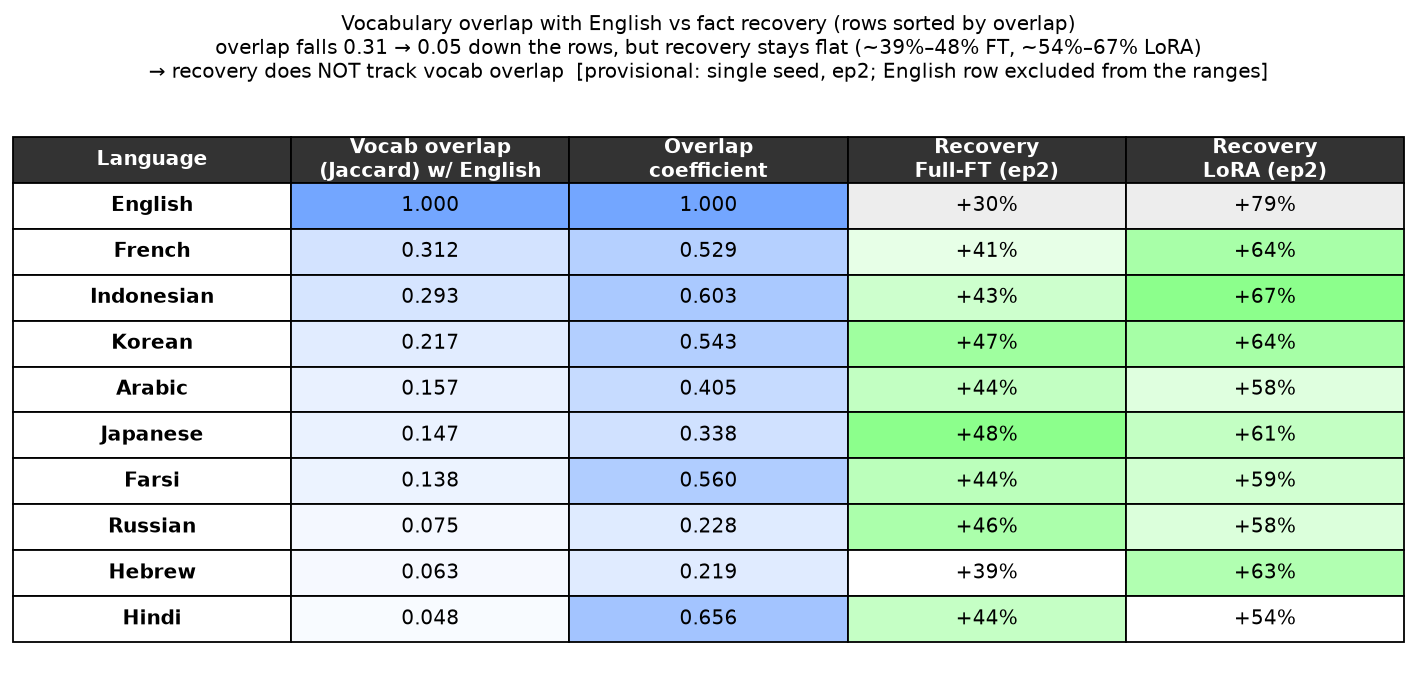
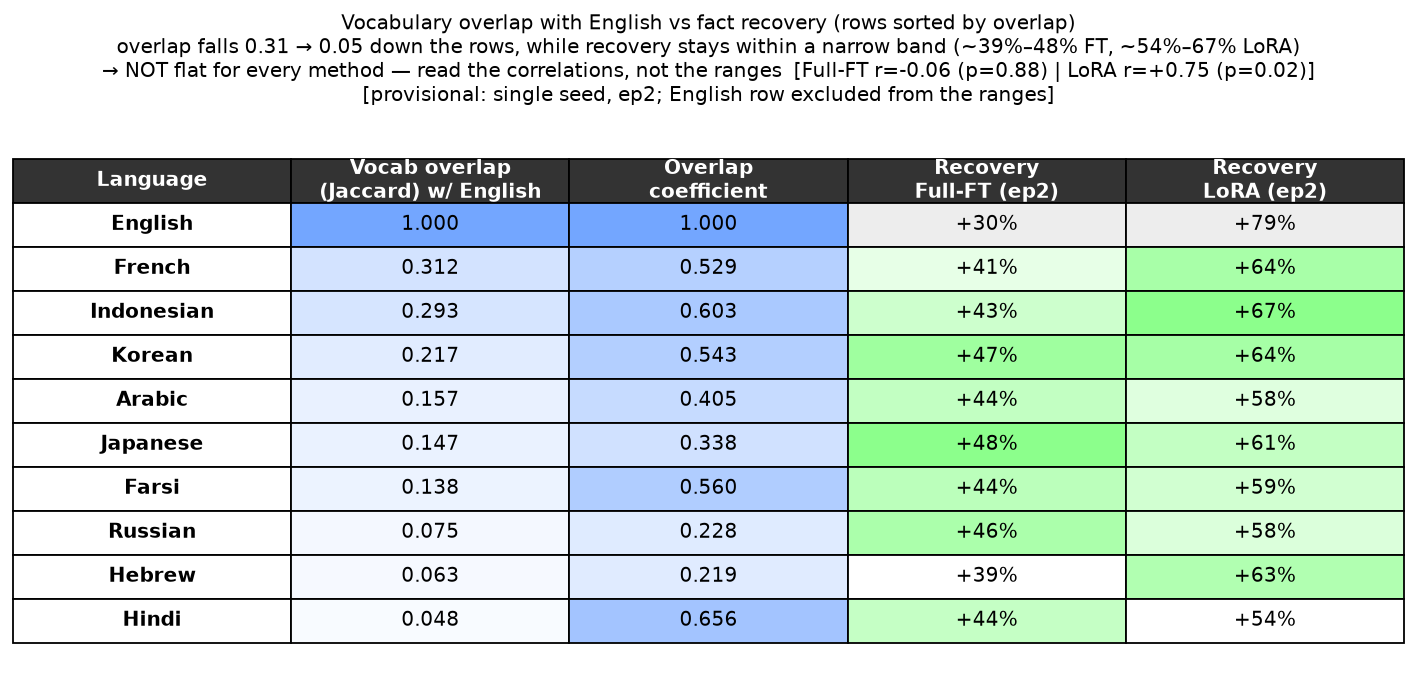
phase1: figure verdicts follow the data; underpowered != uniform
Three Phase 1 figures asserted "recovery does NOT track vocab overlap" in their
titles while their own LoRA panel/column showed r=+0.70..+0.75 at p<0.05. Same bug
class as the stale hardcoded percentages fixed in 5ec8678 -- a figure arguing with
itself -- and it had survived because only the FLORES scatter was patched in e50d783.

All three now compute the verdict at render time: Pearson r plus a 10k permutation p
per method against the plotted overlap axis, printed in the title, with the headline
switching to "NOT flat for every method" when any method is significant. The tables'
range line no longer says recovery "stays flat" (a verdict) -- it says recovery stays
within a narrow band (a fact) and leaves the judgement to the computed correlations.

bootstrap_recovery_ci.py printed "uniform is SUPPORTED (spread < CI width)", which
inverts the inference: per-language CIs 5-7x wider than the between-language spread
mean the design cannot see a difference, not that no difference exists. It now reports
UNDERPOWERED with the ratio (7.5x Full-FT, 5.2x LoRA) and states the required wording
outright -- "no detectable dependence on relearn language", not "the languages are
equal". This script exists to prevent that claim; it was making it.

No result changes -- same JSON, same numbers, only the claims drawn from them.

Claude-Session: https://claude.ai/code/session_01EURqZL7jd7Jw7i1NWkFUF5

Changed region(s): [[0.0, 0.1831, 0.9936, 0.9462], [0.0621, 0.0305, 0.9315, 0.1526]]

diff --git a/studies/crosslingual_recovery/plots/plot_overlap_recovery_table.py b/studies/crosslingual_recovery/plots/plot_overlap_recovery_table.py
@@ -43,6 +43,42 @@ def recovery(base):
     return out
 
 
+
+# --- verdict helpers: the title must FOLLOW the data, not assert a fixed claim ---
+# These figures previously hardcoded "recovery does NOT track vocab overlap" while the
+# LoRA column showed r=+0.7 at p<.05 -- a title contradicting its own table.
+def _pearson(x, y):
+    import math
+    n = len(x); mx = sum(x)/n; my = sum(y)/n
+    cov = sum((a-mx)*(b-my) for a, b in zip(x, y))
+    sx = math.sqrt(sum((a-mx)**2 for a in x)); sy = math.sqrt(sum((b-my)**2 for b in y))
+    return cov/(sx*sy) if sx*sy else float("nan")
+
+
+def _perm_p(x, y, B=10000):
+    import random
+    obs = abs(_pearson(x, y)); ys = list(y); c = 0; random.seed(42)
+    for _ in range(B):
+        random.shuffle(ys)
+        if abs(_pearson(x, ys)) >= obs - 1e-12: c += 1
+    return c/B
+
+
+def _verdict(xs, recs, langs):
+    """One line per method: r, permutation p, and whether it is flat. Non-English only."""
+    nz = [l for l in langs if l != "en"]
+    x = [xs[l] for l in nz]
+    parts, flat = [], True
+    for m, rec in recs.items():
+        y = [rec[l] for l in nz]
+        r = _pearson(x, y); p = _perm_p(x, y)
+        if p < 0.05: flat = False
+        parts.append(f"{m} r={r:+.2f} (p={p:.2f})")
+    lead = ("→ no method tracks vocab overlap"
+            if flat else "→ NOT flat for every method — read the correlations, not the ranges")
+    return lead + "  [" + " | ".join(parts) + "]"
+
+
 def main():
     rec = {m: recovery(b) for m, b in FILES.items()}
     langs = sorted(LANG_NAME, key=lambda l: JACCARD[l], reverse=True)   # high overlap -> low
@@ -91,10 +127,10 @@ def main():
     nz = [l for l in langs if l != "en"]
     ov_hi, ov_lo = JACCARD[nz[0]], JACCARD[nz[-1]]
     ax.set_title("Vocabulary overlap with English vs fact recovery (rows sorted by overlap)\n"
-                 f"overlap falls {ov_hi:.2f} → {ov_lo:.2f} down the rows, but recovery stays flat "
+                 f"overlap falls {ov_hi:.2f} → {ov_lo:.2f} down the rows, while recovery stays within a narrow band "
                  f"(~{min(ftv):.0%}–{max(ftv):.0%} FT, ~{min(lov):.0%}–{max(lov):.0%} LoRA)"
-                 "\n→ recovery does NOT track vocab overlap  "
-                 "[provisional: single seed, ep2; English row excluded from the ranges]",
+                 "\n" + _verdict(JACCARD, rec, langs) +
+                 "\n[provisional: single seed, ep2; English row excluded from the ranges]",
                  fontsize=11, pad=14)
     fig.tight_layout()
     FIGS.mkdir(parents=True, exist_ok=True)

diff --git a/studies/crosslingual_recovery/plots/plot_overlap_recovery_table_flores.py b/studies/crosslingual_recovery/plots/plot_overlap_recovery_table_flores.py
@@ -42,6 +42,42 @@ def recovery(base):
     return out
 
 
+
+# --- verdict helpers: the title must FOLLOW the data, not assert a fixed claim ---
+# These figures previously hardcoded "recovery does NOT track vocab overlap" while the
+# LoRA column showed r=+0.7 at p<.05 -- a title contradicting its own table.
+def _pearson(x, y):
+    import math
+    n = len(x); mx = sum(x)/n; my = sum(y)/n
+    cov = sum((a-mx)*(b-my) for a, b in zip(x, y))
+    sx = math.sqrt(sum((a-mx)**2 for a in x)); sy = math.sqrt(sum((b-my)**2 for b in y))
+    return cov/(sx*sy) if sx*sy else float("nan")
+
+
+def _perm_p(x, y, B=10000):
+    import random
+    obs = abs(_pearson(x, y)); ys = list(y); c = 0; random.seed(42)
+    for _ in range(B):
+        random.shuffle(ys)
+        if abs(_pearson(x, ys)) >= obs - 1e-12: c += 1
+    return c/B
+
+
+def _verdict(xs, recs, langs):
+    """One line per method: r, permutation p, and whether it is flat. Non-English only."""
+    nz = [l for l in langs if l != "en"]
+    x = [xs[l] for l in nz]
+    parts, flat = [], True
+    for m, rec in recs.items():
+        y = [rec[l] for l in nz]
+        r = _pearson(x, y); p = _perm_p(x, y)
+        if p < 0.05: flat = False
+        parts.append(f"{m} r={r:+.2f} (p={p:.2f})")
+    lead = ("→ no method tracks vocab overlap"
+            if flat else "→ NOT flat for every method — read the correlations, not the ranges")
+    return lead + "  [" + " | ".join(parts) + "]"
+
+
 def main():
     rec = {m: recovery(b) for m, b in FILES.items()}
     langs = sorted(LANG_NAME, key=lambda l: JACCARD[l], reverse=True)
@@ -90,10 +126,10 @@ def main():
     nz = [l for l in langs if l != "en"]
     ov_hi, ov_lo = JACCARD[nz[0]], JACCARD[nz[-1]]
     ax.set_title("Vocabulary overlap with English (FLORES-200, CLC Jaccard) vs fact recovery\n"
-                 f"overlap falls {ov_hi:.2f} → {ov_lo:.2f} down the rows, but recovery stays flat "
+                 f"overlap falls {ov_hi:.2f} → {ov_lo:.2f} down the rows, while recovery stays within a narrow band "
                  f"(~{min(ftv):.0%}–{max(ftv):.0%} FT, ~{min(lov):.0%}–{max(lov):.0%} LoRA)"
-                 "\n→ recovery does NOT track vocab overlap  "
-                 "[provisional: single seed, ep2; English row excluded from the ranges]",
+                 "\n" + _verdict(JACCARD, rec, langs) +
+                 "\n[provisional: single seed, ep2; English row excluded from the ranges]",
                  fontsize=11, pad=14)
     fig.tight_layout()
     FIGS.mkdir(parents=True, exist_ok=True)

diff --git a/studies/crosslingual_recovery/plots/bootstrap_recovery_ci.py b/studies/crosslingual_recovery/plots/bootstrap_recovery_ci.py
@@ -2,7 +2,9 @@
 
 Recovery per language = (baseline_TR - relearned_TR) / (baseline_TR - LEARNED_TR),
 a MEAN over the ~40 forget facts. "Uniform across languages" is only meaningful if
-the between-language spread exceeds the within-language noise floor. This resamples
+the between-language spread exceeds the within-language noise floor -- if it does
+NOT, the design is underpowered, which is not the same as the languages being equal.
+This resamples
 the 40 facts (paired: same fact index in baseline and relearned) 1000x to get a 95%
 CI per language, for both methods at relearn ep2.
 
@@ -71,7 +73,20 @@ def main():
             spread = max(pts) - min(pts)
             typ_ci = sum(v[2] - v[1] for v in means.values()) / len(means)
             print(f"  between-lang spread = {spread:.1%};  typical within-lang CI width = {typ_ci:.1%}")
-            print(f"  -> uniform is {'SUPPORTED (spread < CI width)' if spread < typ_ci else 'QUESTIONABLE (spread >= CI width; check non-overlapping langs, esp. en)'}")
+            # spread < CI width does NOT support uniformity -- it means the design has
+            # no power to see a difference of that size. Absence of a resolvable
+            # difference is not evidence of equality, and saying "uniform is SUPPORTED"
+            # is exactly the claim this bootstrap exists to prevent.
+            if spread < typ_ci:
+                print(f"  -> UNDERPOWERED: the CI ({typ_ci:.0%}) is {typ_ci/spread:.1f}x the "
+                      f"spread ({spread:.0%}), so a real per-language difference this size "
+                      "would be invisible.\n"
+                      "     Report as 'no detectable dependence on relearn language'; "
+                      "do NOT report the languages as equal.")
+            else:
+                print(f"  -> spread ({spread:.0%}) exceeds the CI ({typ_ci:.0%}) -- a "
+                      "per-language difference may be resolvable here; check which "
+                      "languages' CIs actually fail to overlap (esp. en).")
 
 
 if __name__ == "__main__":

diff --git a/studies/crosslingual_recovery/plots/phase1_vocab_overlap.py b/studies/crosslingual_recovery/plots/phase1_vocab_overlap.py
@@ -167,9 +167,19 @@ def main():
         ax.set_xlabel("subword-vocabulary Jaccard overlap with English", fontsize=10)
         ax.set_ylabel("fraction recovered (ep2)", fontsize=10)
         ax.grid(True, alpha=0.25, ls="--"); ax.set_axisbelow(True)
-    fig.suptitle("Phase 1: does cross-lingual recovery track vocab overlap? "
-                 "(flat line => interlingua, not vocab-sharing)  [PROVISIONAL: single seed, n=9]",
-                 fontsize=12)
+    # The headline follows the PANELS. It previously asserted "flat line => interlingua"
+    # above a right-hand panel showing r=+0.75 at p=0.02 -- a figure arguing with itself.
+    rs = {m: (pearson([jac[l] for l in LANGS], [rec[m][l] for l in LANGS]),
+              perm_p([jac[l] for l in LANGS], [rec[m][l] for l in LANGS])) for m in FILES}
+    flat = all(pv >= 0.05 for _, pv in rs.values())
+    lead = ("flat for both => recovery not explained by vocab-sharing"
+            if flat else "NOT flat for every method — see panels")
+    detail = " | ".join(f"{m}: r={r:+.2f}" + ("" if pv >= 0.05 else " (p<.05)")
+                        for m, (r, pv) in rs.items())
+    fig.suptitle("Phase 1 (TOFU parallel corpus): does cross-lingual recovery track vocab "
+                 f"overlap? — {lead}\n{detail}  [PROVISIONAL: single seed, n=9 langs; "
+                 "per-language CIs are far wider than the between-language spread]",
+                 fontsize=11)
     fig.tight_layout(rect=(0, 0, 1, 0.95))
     FIGS.mkdir(parents=True, exist_ok=True)
     out = FIGS / "phase1_vocab_overlap.png"
